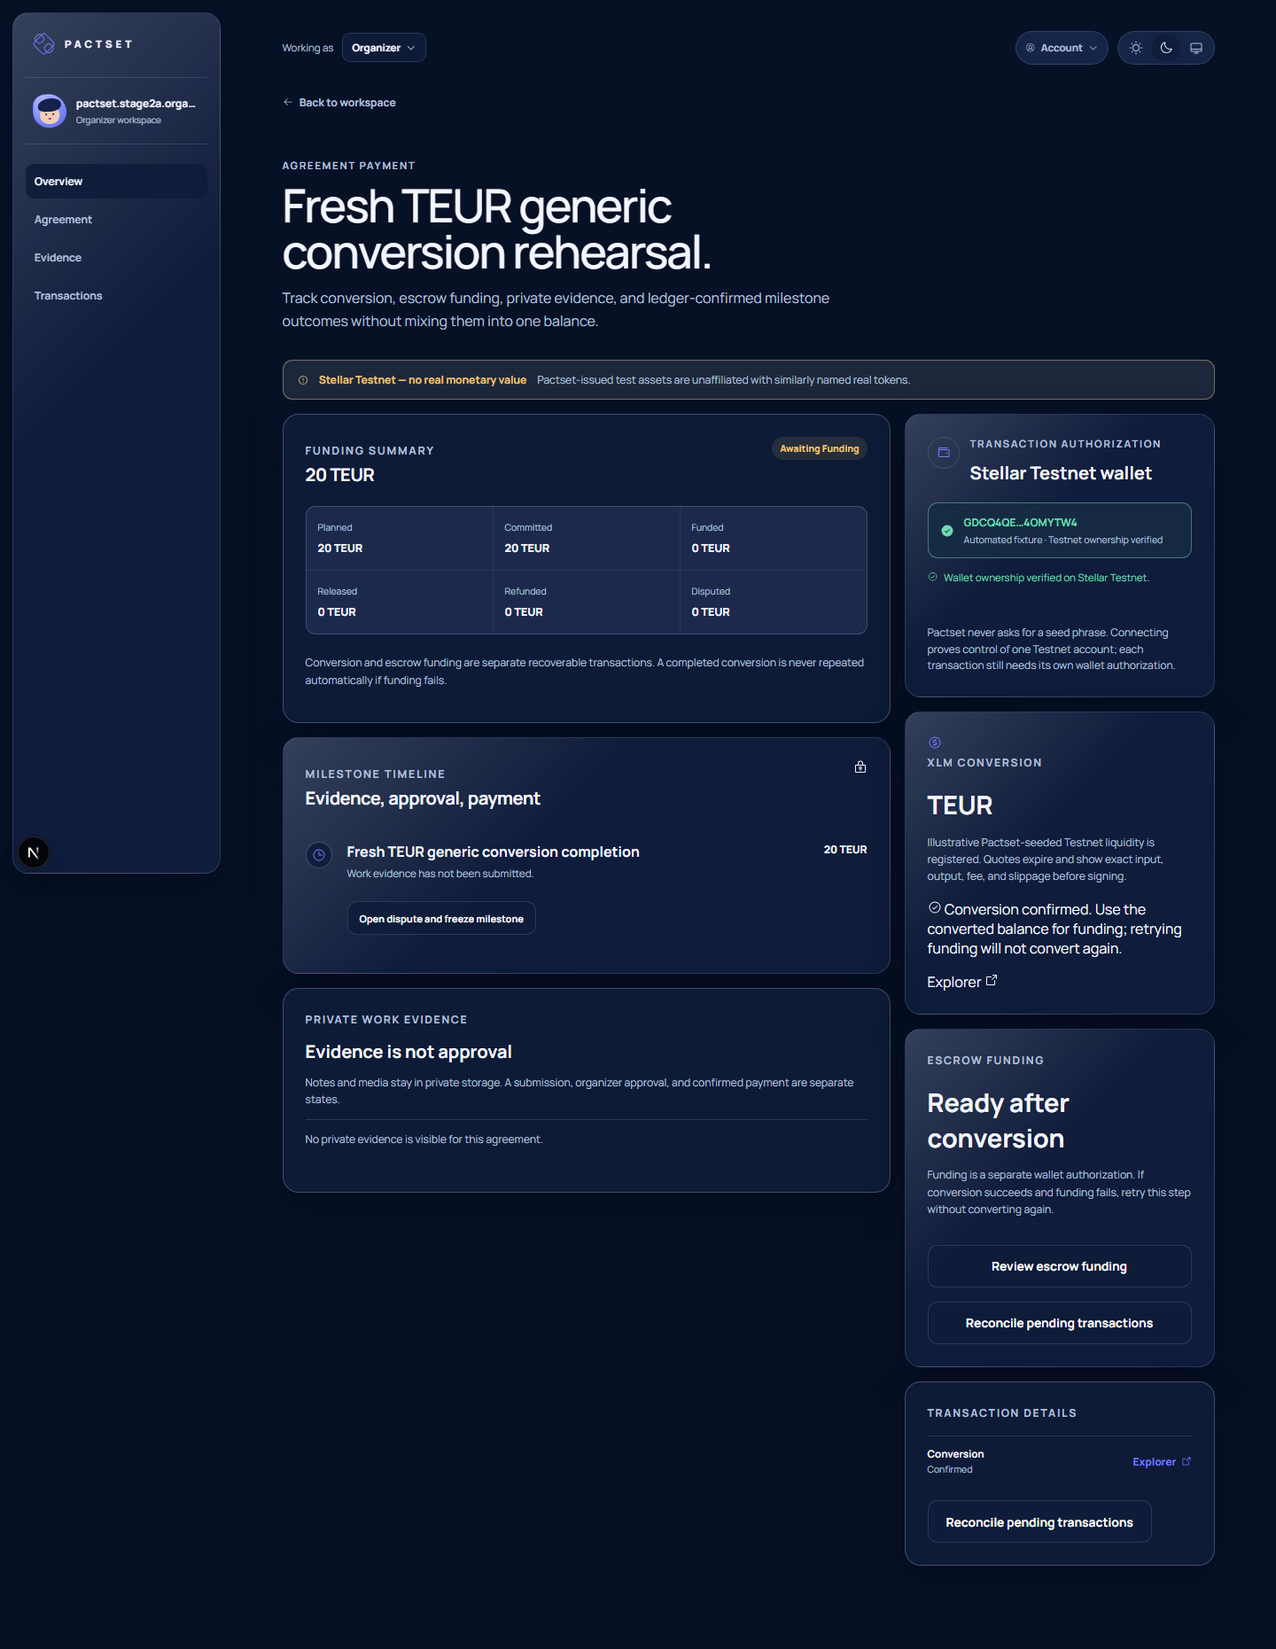
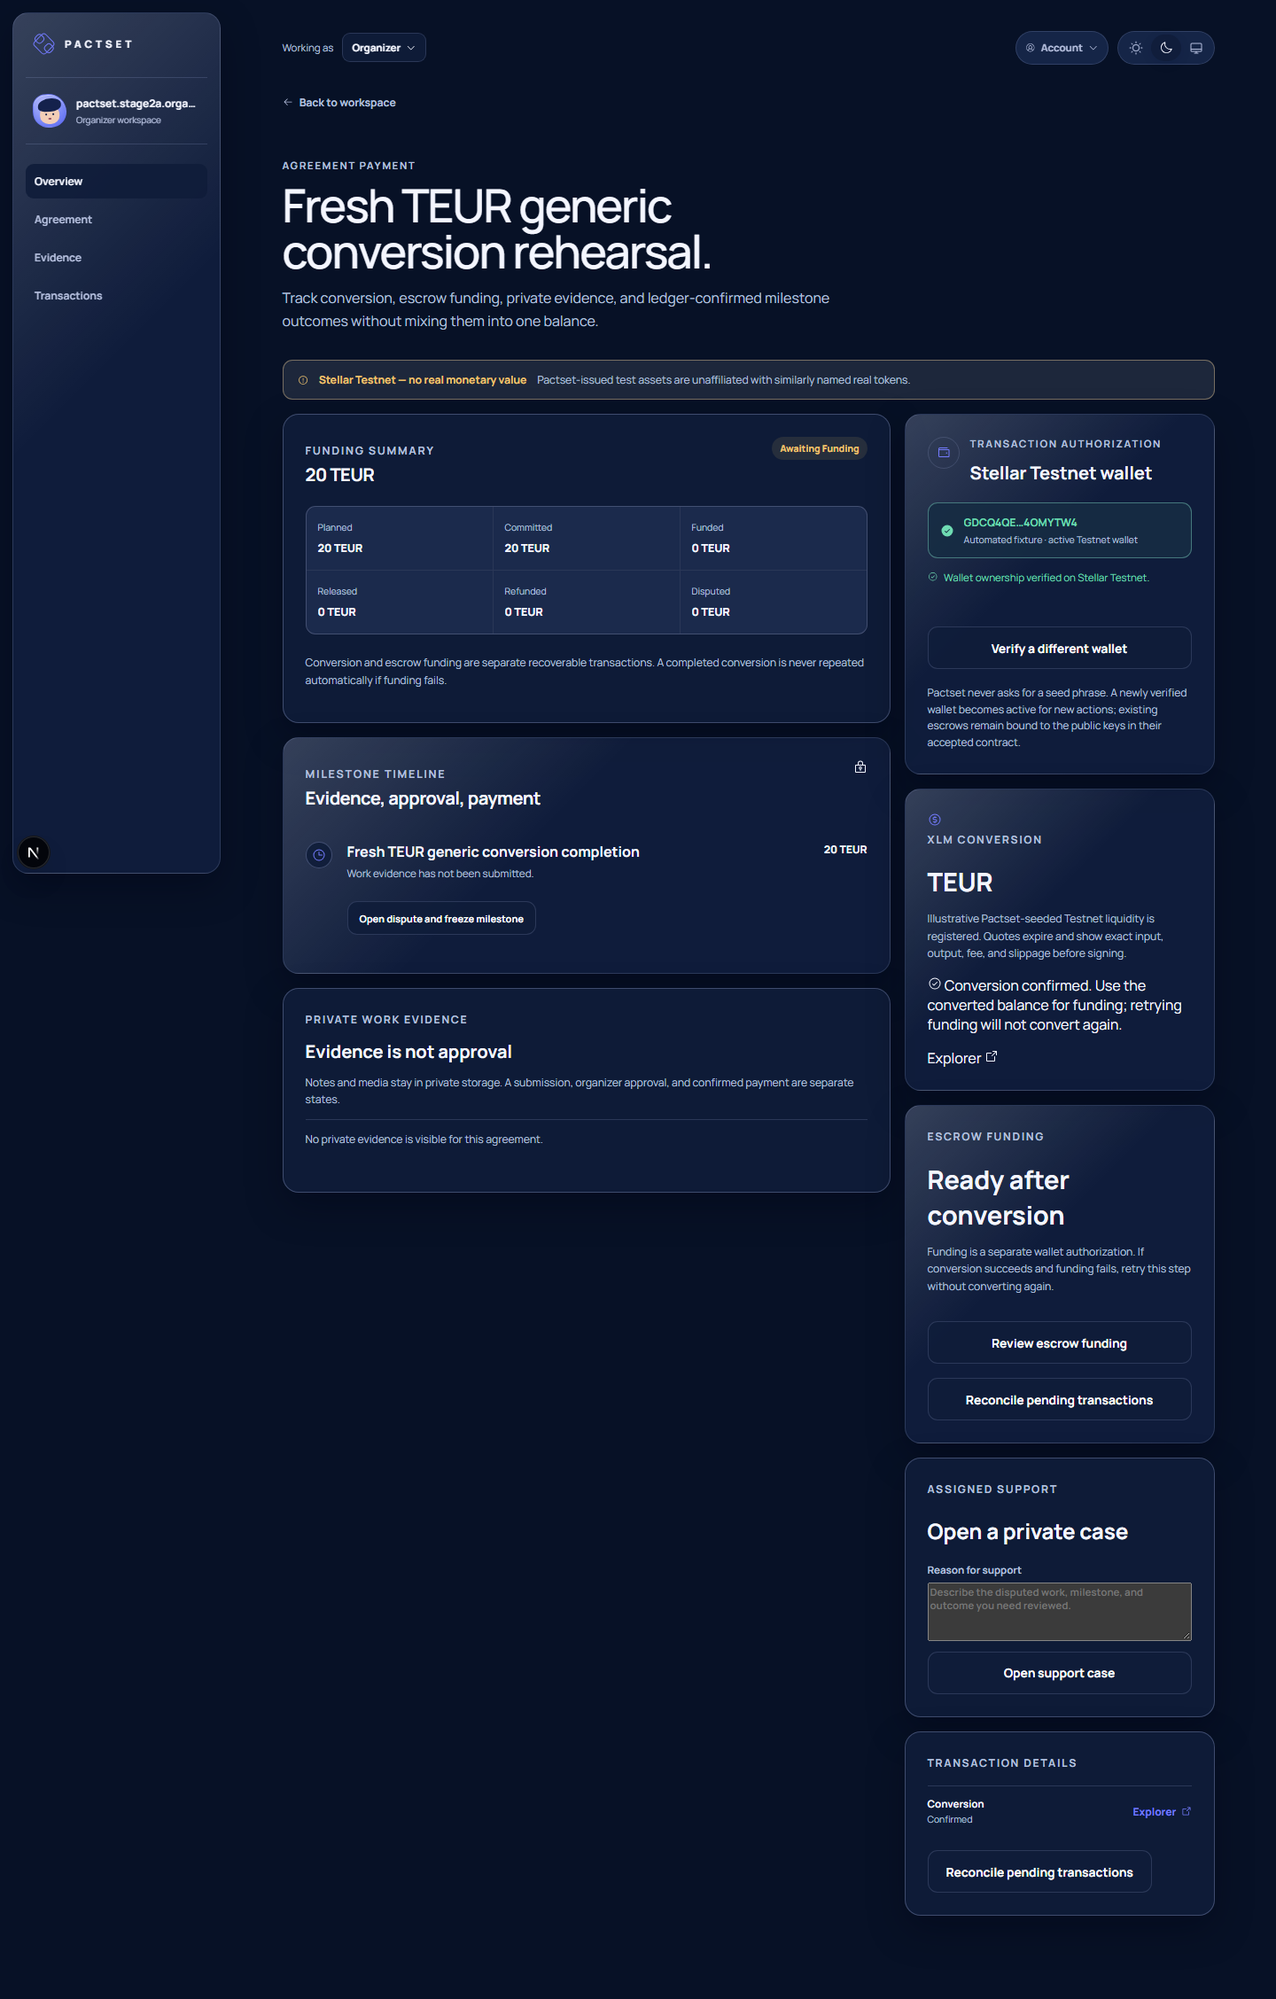
fix: support safe verified wallet switching

diff --git a/supabase/functions/stellar-payments/index.ts b/supabase/functions/stellar-payments/index.ts
@@ -105,7 +105,7 @@ async function context(admin: ReturnType<typeof createClient>, userId: string, a
   if (agreement.organizer_id !== userId && agreement.provider_id !== userId && !assignedSupport) fail("Agreement not found", 404, "not_found");
   const [{ data: escrow }, { data: wallet }] = await Promise.all([
     admin.from("agreement_escrows").select("*").eq("agreement_id", agreementId).maybeSingle(),
-    admin.from("wallet_connections").select("public_key,network").eq("user_id", userId).eq("network", "TESTNET").maybeSingle(),
+    admin.from("wallet_connections").select("public_key,network").eq("user_id", userId).eq("network", "TESTNET").eq("active", true).maybeSingle(),
   ]);
   if (!escrow) fail("Escrow has not been prepared for this agreement", 409, "escrow_unavailable");
   if (walletRequired && !wallet) fail("Verify a Stellar Testnet wallet first", 409, "wallet_required");
@@ -261,8 +261,8 @@ Deno.serve(async (request: Request) => {
       const { data: currentEscrow } = await admin.from("agreement_escrows").select("id,contract_address").eq("agreement_id", agreementId).maybeSingle();
       if (currentEscrow) return reply({ alreadyCreated: true, escrow: currentEscrow });
       const [{ data: payerWallet }, { data: payeeWallet }, { data: runtime }, { data: asset }] = await Promise.all([
-        admin.from("wallet_connections").select("public_key").eq("user_id", agreement.organizer_id).eq("network", "TESTNET").maybeSingle(),
-        admin.from("wallet_connections").select("public_key").eq("user_id", agreement.provider_id).eq("network", "TESTNET").maybeSingle(),
+        admin.from("wallet_connections").select("public_key").eq("user_id", agreement.organizer_id).eq("network", "TESTNET").eq("active", true).maybeSingle(),
+        admin.from("wallet_connections").select("public_key").eq("user_id", agreement.provider_id).eq("network", "TESTNET").eq("active", true).maybeSingle(),
         admin.from("escrow_runtime_registry").select("*").eq("network", "TESTNET").eq("active", true).maybeSingle(),
         admin.from("test_asset_registry").select("*").eq("asset_code", agreement.currency).maybeSingle(),
       ]);
@@ -271,7 +271,7 @@ Deno.serve(async (request: Request) => {
       if (payerWallet.public_key === payeeWallet.public_key) fail("Organizer and provider must use distinct wallets", 409, "wallet_reuse");
       if (!runtime?.active || !runtime.wasm_hash) fail("The Testnet escrow runtime is not ready", 409, "runtime_unavailable");
       const [{ data: resolverWallet }, { data: resolverRole }] = await Promise.all([
-        admin.from("wallet_connections").select("public_key").eq("user_id", runtime.resolver_user_id).eq("network", "TESTNET").eq("public_key", runtime.resolver_public_key).maybeSingle(),
+        admin.from("wallet_connections").select("public_key").eq("user_id", runtime.resolver_user_id).eq("network", "TESTNET").eq("public_key", runtime.resolver_public_key).eq("active", true).maybeSingle(),
         admin.from("account_roles").select("role").eq("user_id", runtime.resolver_user_id).eq("role", "support").eq("status", "active").maybeSingle(),
       ]);
       if (!resolverWallet || !resolverRole) fail("The disclosed Testnet resolver is not available", 409, "resolver_unavailable");

diff --git a/src/components/payments/wallet-connection.tsx b/src/components/payments/wallet-connection.tsx
@@ -76,5 +76,5 @@ export function WalletConnection({ initialConnection }: { initialConnection: Con
     }
   }
 
-  return <section className="wallet-card glass-panel" aria-labelledby="wallet-title"><div className="wallet-card-heading"><span className="section-icon"><Wallet /></span><div><p className="kicker">Transaction authorization</p><h2 id="wallet-title">Stellar Testnet wallet</h2></div></div>{connection ? <div className="wallet-identity"><CheckCircle weight="fill" /><div><strong>{abbreviated(connection.public_key)}</strong><span>{connection.wallet_provider} · Testnet ownership verified</span></div></div> : <div className="wallet-identity is-disconnected"><LinkBreak /><div><strong>Not connected</strong><span>Your Pactset account remains signed in independently.</span></div></div>}<p className={`wallet-message ${state}`} role={state === "error" || state === "wrong-network" ? "alert" : "status"}>{state === "pending" ? <SpinnerGap className="spinner" /> : state === "confirmed" ? <CheckCircle /> : <WarningCircle />}{message}</p>{!connection && <button className="button button-primary" type="button" onClick={connect} disabled={state === "pending"} aria-busy={state === "pending"}>{state === "pending" ? "Waiting for wallet" : "Connect Freighter"}</button>}<p className="field-note">Pactset never asks for a seed phrase. Connecting proves control of one Testnet account; each transaction still needs its own wallet authorization.</p></section>;
+  return <section className="wallet-card glass-panel" aria-labelledby="wallet-title"><div className="wallet-card-heading"><span className="section-icon"><Wallet /></span><div><p className="kicker">Transaction authorization</p><h2 id="wallet-title">Stellar Testnet wallet</h2></div></div>{connection ? <div className="wallet-identity"><CheckCircle weight="fill" /><div><strong>{abbreviated(connection.public_key)}</strong><span>{connection.wallet_provider} · active Testnet wallet</span></div></div> : <div className="wallet-identity is-disconnected"><LinkBreak /><div><strong>Not connected</strong><span>Your Pactset account remains signed in independently.</span></div></div>}<p className={`wallet-message ${state}`} role={state === "error" || state === "wrong-network" ? "alert" : "status"}>{state === "pending" ? <SpinnerGap className="spinner" /> : state === "confirmed" ? <CheckCircle /> : <WarningCircle />}{message}</p><button className={`button ${connection ? "button-secondary" : "button-primary"}`} type="button" onClick={connect} disabled={state === "pending"} aria-busy={state === "pending"}>{state === "pending" ? "Waiting for wallet" : connection ? "Verify a different wallet" : "Connect Freighter"}</button><p className="field-note">Pactset never asks for a seed phrase. A newly verified wallet becomes active for new actions; existing escrows remain bound to the public keys in their accepted contract.</p></section>;
 }

diff --git a/supabase/functions/wallet-auth/index.ts b/supabase/functions/wallet-auth/index.ts
@@ -135,28 +135,25 @@ Deno.serve(async (request: Request) => {
     if (consumeError || !consumed) return response({ error: "Wallet challenge has already been used" }, 409);
 
     const provider = typeof body.walletProvider === "string" ? body.walletProvider.slice(0, 48) : "Freighter";
-    const { data: connection, error: connectionError } = await admin
-      .from("wallet_connections")
-      .upsert(
-        {
-          user_id: authData.user.id,
-          public_key: publicKey,
-          network: "TESTNET",
-          wallet_provider: provider,
-          verified_at: usedAt,
-          updated_at: usedAt,
-        },
-        { onConflict: "user_id,network" },
-      )
-      .select("public_key,network,wallet_provider,verified_at")
-      .single();
+    const { data: connection, error: connectionError } = await admin.rpc("activate_wallet_connection", {
+      p_user_id: authData.user.id,
+      p_public_key: publicKey,
+      p_network: "TESTNET",
+      p_wallet_provider: provider,
+      p_verified_at: usedAt,
+    });
     if (connectionError || !connection) {
       const message = connectionError?.code === "23505"
         ? "This Testnet wallet is already connected to another Pactset account"
         : "Could not save the verified wallet";
       return response({ error: message }, connectionError?.code === "23505" ? 409 : 500);
     }
-    return response({ connection });
+    return response({ connection: {
+      public_key: connection.public_key,
+      network: connection.network,
+      wallet_provider: connection.wallet_provider,
+      verified_at: connection.verified_at,
+    } });
   }
 
   return response({ error: "Unsupported action" }, 400);

diff --git a/src/app/workspace/support/cases/[id]/page.tsx b/src/app/workspace/support/cases/[id]/page.tsx
@@ -19,7 +19,7 @@ export default async function SupportCasePage({ params }: { params: Promise<{ id
     supabase.from("agreement_escrows").select("*").eq("agreement_id", supportCase.agreement_id).maybeSingle(),
     supabase.from("support_case_messages").select("*").eq("case_id", id).order("created_at"),
     supabase.from("support_case_events").select("*").eq("case_id", id).order("created_at"),
-    supabase.from("wallet_connections").select("public_key,network,wallet_provider,verified_at").eq("user_id", account.userId).eq("network", "TESTNET").maybeSingle(),
+    supabase.from("wallet_connections").select("public_key,network,wallet_provider,verified_at").eq("user_id", account.userId).eq("network", "TESTNET").eq("active", true).maybeSingle(),
   ]);
   if (!agreement) notFound();
   const { data: milestones } = escrow ? await supabase.from("escrow_milestones").select("*").eq("escrow_id", escrow.id).order("milestone_index") : { data: null };

diff --git a/tests/e2e/stage2b-payments.spec.ts b/tests/e2e/stage2b-payments.spec.ts
@@ -30,7 +30,8 @@ test.describe("Stage 2B payment projection", () => {
     await expect(page.getByText("750 TUSD", { exact: true }).first()).toBeVisible();
     await expect(page.getByText("Testnet payment is confirmed", { exact: false })).toBeVisible();
     await expect(page.getByText("returned this unreleased amount", { exact: false })).toBeVisible();
-    await expect(page.getByText("Testnet ownership verified", { exact: false })).toBeVisible();
+    await expect(page.getByText("active Testnet wallet", { exact: false })).toBeVisible();
+    await expect(page.getByRole("button", { name: "Verify a different wallet" })).toBeEnabled();
     expect(await page.getByRole("link", { name: /Explorer/ }).count()).toBeGreaterThanOrEqual(4);
     await expect(page.getByText("Automated Testnet fixture", { exact: false })).toBeVisible();
     await expect(page.locator("body")).not.toHaveCSS("overflow-x", "scroll");

diff --git a/src/app/workspace/agreements/[id]/payment/page.tsx b/src/app/workspace/agreements/[id]/payment/page.tsx
@@ -26,7 +26,7 @@ export default async function AgreementPaymentPage({ params }: { params: Promise
   const supabase = await createClient();
   const [{ data: agreement }, { data: wallet }, { data: escrow }] = await Promise.all([
     supabase.from("agreements").select("*").eq("id", id).maybeSingle(),
-    supabase.from("wallet_connections").select("public_key,network,wallet_provider,verified_at").eq("user_id", account.userId).eq("network", "TESTNET").maybeSingle(),
+    supabase.from("wallet_connections").select("public_key,network,wallet_provider,verified_at").eq("user_id", account.userId).eq("network", "TESTNET").eq("active", true).maybeSingle(),
     supabase.from("agreement_escrows").select("*,test_asset_registry(*)").eq("agreement_id", id).maybeSingle(),
   ]);
   if (!agreement) notFound();

diff --git a/docs/requirements-matrix.md b/docs/requirements-matrix.md
@@ -109,7 +109,7 @@ Statuses: **Not started**, **Fixture only**, **Implemented**, **Verified**, **Bl
 | PAY-008 | 2 | Atomicity claims limited to one atomic transaction, not whole event by default | Finance copy | Transaction grouping model | Copy and transaction-boundary review | Not started |
 | PAY-009 | 2/4 | Human releases once; support hold/adjudication bounded; completed transfers irreversible; disputed funds isolated | Milestones/support | Contract authorization + assigned-case workflow | Live repeat/unauthorized/disputed release rejected; fresh assigned-case model restricts resolution to the assigned support account owning the disclosed resolver wallet; full disputed-case browser rehearsal remains | Implemented; automated authorization verified, browser resolver rehearsal pending |
 | PAY-010 | 4 | Nonresponse escalation and resolution timing; no automatic AI payment decision | Support/case | Scheduler/case transitions | Timeout and authority tests | Not started |
-| PAY-011 | 2 | Server constructs/validates actions; wallet signs; no seed phrase; secure account-wallet binding | Wallet/signing | Auth binding and transaction builder | Server-prepared envelope, Freighter client signing and server envelope/signer validation implemented; challenge attacks rejected | Implemented; extension interaction needs staging rehearsal |
+| PAY-011 | 2 | Server constructs/validates actions; wallet signs; no seed phrase; secure account-wallet binding | Wallet/signing | Auth binding and transaction builder | Server-prepared envelope, Freighter signing client and signer validation implemented; single-use challenge attacks rejected; switching the active verified wallet is service-atomic and cannot rewrite existing escrow keys | Implemented; extension interaction needs staging rehearsal |
 | PAY-012 | 2 | Exact asset math, idempotency, authorization, server checks | All finance | Decimal/sequence/request keys | Contract integer arithmetic and idempotent provisioning/transaction keys pass; broader property tests outstanding | Partially verified |
 | PAY-013 | 2 | Ledger-confirmed states and real explorer links; reconcile pending after refresh/timeout/restart | Transactions | Reconciliation worker | Hashes persist before submit; caller-scoped Edge reconciliation and local worker pass; browser shows genuine Explorer links | Implemented and automated locally |
 | PAY-014 | 2 | Fees/reserves, contract lifetime, and Testnet resets handled explicitly | Wallet/admin | Operational monitoring/recovery | Disposable Testnet account rejected a trustline with `op_low_reserve`; reset and contract-TTL recovery remain untested | Partially verified |

diff --git a/docs/staging-test-plan.md b/docs/staging-test-plan.md
@@ -52,7 +52,7 @@ The existing `http://localhost:3000/**` redirect remains for developers. No broa
 
 1. Install Freighter only from its official source. Create a disposable wallet, switch it to **Testnet**, and fund it only with Friendbot Testnet XLM. Never paste a seed phrase into Pactset or the test report.
 2. Open the protected Preview and sign into the organizer development account in a dedicated browser profile. Confirm the screen says **Stellar Testnet — no real monetary value**.
-3. Open fresh accepted agreement `b6346e29-c5ba-488c-aade-8e454df973d6` (5 TUSD). It deliberately has no escrow and no operator wallet. Connect distinct organizer and supplier Freighter Testnet wallets and sign each single-use ownership challenge. Reject once to verify the declined state, reconnect, then confirm the verified address and Testnet network.
+3. Open fresh accepted agreement `b6346e29-c5ba-488c-aade-8e454df973d6` (5 TUSD). It deliberately has no escrow and no operator wallet. In each account choose **Verify a different wallet**, select a distinct Freighter Testnet account, and sign the single-use ownership challenge. Reject once to verify the declined state, retry, then confirm the active address and Testnet network. This does not rewrite public keys on older escrows.
 4. As organizer, choose **Create escrow**. Review the accepted agreement version, exact TUSD asset/issuer, participants, milestone amounts and disclosed resolver; sign the contract-creation envelope in Freighter. Refresh or use reconciliation until the confirmed contract identifier appears. Retrying or double-clicking must not create a second escrow.
 5. Request a TUSD quote. Check asset code **and issuer**, exact output, maximum XLM input, fee, illustrative-rate label, slippage and expiry before signing.
 6. Add the displayed TUSD trustline if requested, sign the conversion, wait for a real Testnet hash, refresh, and confirm reconciliation does not offer a second conversion.

diff --git a/docs/HANDOFF.md b/docs/HANDOFF.md
@@ -122,4 +122,5 @@ Push this secret-free checkpoint only to `codex/stage-2b-preview`, wait for the 
[1 lines of base64/hex data omitted]
 - Isolated automated agreement `60a7b51a-1129-45fe-8872-8f842ccd72ae` and assigned case `acdb42fc-4400-4faf-9efc-c70e6f357d33` verify the application/Edge/RLS path. `browserWalletSigning` is false and `fixtureSigningOnly` is true; real Freighter extension signing remains the owner's private step.
 - The public currency catalogue remains independent from provisioned assets. Event planning accepts the searchable ISO catalogue; settlement controls still require an exact registered/provisioned asset and never substitute TUSD.
-- Checks passed: typecheck, Biome lint, 8/8 app tests, 5/5 Rust contract tests, production build, and the resumable wallet-created-escrow integration. Email confirmation and recovery remain unverified until real received links complete both routes.
+- Accounts may retain multiple ownership-verified Testnet wallets but only one is active. **Verify a different wallet** performs a new single-use challenge and switches the active wallet transactionally through a service-only RPC. Existing escrow payer/payee/resolver keys never change; new escrow creation uses the active wallets.
+- Checks passed: typecheck, Biome lint, 9/9 app tests, 5/5 Rust contract tests, production compilation/routes, the resumable wallet-created-escrow integration, and 2/2 desktop/mobile payment browser checks in both themes. Email confirmation and recovery remain unverified until real received links complete both routes.

diff --git a/docs/security-definer-review.md b/docs/security-definer-review.md
@@ -10,6 +10,7 @@ Reviewed 2026-10-05 against `pactset-development`. Every caller-facing definer b
 | `open_support_case` | Authenticated caller must be an agreement participant; the function locks the agreement, reuses an active case, assigns only the support identity that owns the escrow's disclosed resolver, and writes an audit event | Keep as atomic assignment RPC |
 | `add_support_case_message` | Caller must pass case-scoped access; any referenced evidence must belong to that case's agreement; message and audit event are inserted together | Keep as scoped write RPC |
 | `finalize_escrow_deployment` | Not executable by browser roles; service role only. Locks the agreement, returns an existing escrow on retry, validates milestone allocation, and records the confirmed contract/hash atomically | Keep as ledger reconciliation RPC |
+| `activate_wallet_connection` | Not executable by browser roles; service role only. It rejects a wallet owned by another account and transactionally selects one active verified wallet without changing any existing escrow participant | Keep as wallet-verification persistence RPC |
 | `counter_offer` | Locks offer/version rows; caller must be organizer or provider participant and pass expected-version/state checks | Keep as atomic transition RPC |
 | `has_active_provider_role` | Avoids recursive role-policy evaluation and exposes only a membership boolean | Keep; consider private-schema refactor later |
 | `list_eligible_requests` | Produces a deliberately redacted request projection; caller must hold active supplier/crew role | Keep as discovery RPC |

diff --git a/docs/progress.md b/docs/progress.md
@@ -164,4 +164,5 @@ The following are explicit Stage 5 verification requirements and must not be mar
[1 lines of base64/hex data omitted]
 - Assigned case `acdb42fc-4400-4faf-9efc-c70e6f357d33` was opened by a participant and assigned server-side to the support identity that owns the disclosed resolver fixture wallet. Assigned access and unrelated denial passed. Real Freighter signing and the fresh browser dispute/resolution rehearsal remain required.
 - Supabase Auth now has the exact protected Preview origin as Site URL and exact `/auth/confirm**` and `/auth/update-password` redirects; localhost remains allowed. Verification was not disabled. Actual confirmation and recovery email-link journeys remain unverified.
+- Added safe active-wallet switching after browser QA found the development accounts were already bound to automated fixture wallets. The service-only transaction keeps one active verified wallet per account/network while leaving every existing escrow participant key immutable.
 - Typecheck, Biome lint, 8/8 app tests, 5/5 contract tests, and a Next.js production build passed. The first build attempt hit a OneDrive `EPERM` generated-directory lock; a clean retry completed all static and dynamic routes.
